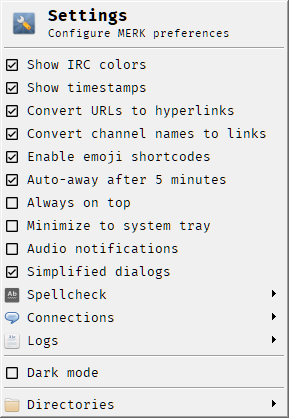
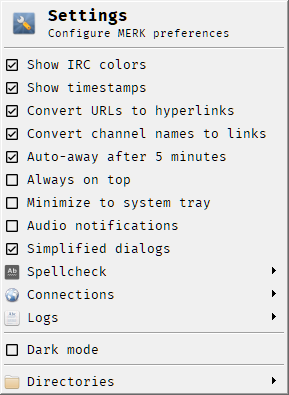
Latest build

Changed region(s): [[0.0, 0.0, 0.9965, 1.0], [0.9343, 0.6684, 0.9654, 0.7595]]

diff --git a/README.html b/README.html
@@ -1,4 +1,4 @@
-<h1>MERK 0.042.064</h1>
+<h1>MERK 0.042.070</h1>
 
 <p><a href="https://github.com/nutjob-laboratories/merk">Official source code repository</a></p>
 <h1 id="table-of-contents">Table of contents</h1>
@@ -14,7 +14,7 @@
 <li><a href="#does-merk-need-any-help">Does MERK need any help?</a></li>
 </ul>
 <h1 id="summary">Summary</h1>
-<p><strong>MERK</strong> is a graphical <a href="https://www.gnu.org/licenses/gpl-3.0.en.html">open source</a> <a href="https://en.wikipedia.org/wiki/Internet_Relay_Chat">Internet relay chat</a> client. The current development version is <strong>0.042.064</strong>. It uses a <a href="https://en.wikipedia.org/wiki/Multiple-document_interface">multiple-document interface</a>, much like the popular Windows IRC client <a href="https://www.mirc.com/">mIRC</a>.  <strong>MERK</strong> is written in Python 3, using the <a href="https://pypi.org/project/PyQt5/">PyQt5</a> and <a href="https://twistedmatrix.com/trac/">Twisted</a> libraries, and runs on both Windows and Linux. <strong>MERK</strong> is updated frequently with new features and bugfixes.</p>
+<p><strong>MERK</strong> is a graphical <a href="https://www.gnu.org/licenses/gpl-3.0.en.html">open source</a> <a href="https://en.wikipedia.org/wiki/Internet_Relay_Chat">Internet relay chat</a> client. The current development version is <strong>0.042.070</strong>. It uses a <a href="https://en.wikipedia.org/wiki/Multiple-document_interface">multiple-document interface</a>, much like the popular Windows IRC client <a href="https://www.mirc.com/">mIRC</a>.  <strong>MERK</strong> is written in Python 3, using the <a href="https://pypi.org/project/PyQt5/">PyQt5</a> and <a href="https://twistedmatrix.com/trac/">Twisted</a> libraries, and runs on both Windows and Linux. <strong>MERK</strong> is updated frequently with new features and bugfixes.</p>
 <p><strong>MERK</strong> is still in development, but it works, and can be used for most IRC activities.</p>
 <p>Join me on the official <strong>MERK</strong> IRC channel, <strong>#merk</strong> on the Libera Chat network! Connect to  Libera in the client as one of the built-in server suggestions, or at <strong>irc.libera.chat</strong>, port <strong>6667</strong> (you can also connect via SSL on port <strong>6697</strong>). Honestly, I work a lot, so I&#39;m almost always idle, but I pop in and chat a few times a day!</p>
 <h1 id="making-merk-portable-on-windows">Making MERK Portable on Windows</h1>

diff --git a/merk/resources/README.html b/merk/resources/README.html
@@ -1,4 +1,4 @@
-<h1>MERK 0.042.064</h1>
+<h1>MERK 0.042.070</h1>
 
 <p><a href="https://github.com/nutjob-laboratories/merk">Official source code repository</a></p>
 <h1 id="table-of-contents">Table of contents</h1>
@@ -14,7 +14,7 @@
 <li><a href="#does-merk-need-any-help">Does MERK need any help?</a></li>
 </ul>
 <h1 id="summary">Summary</h1>
-<p><strong>MERK</strong> is a graphical <a href="https://www.gnu.org/licenses/gpl-3.0.en.html">open source</a> <a href="https://en.wikipedia.org/wiki/Internet_Relay_Chat">Internet relay chat</a> client. The current development version is <strong>0.042.064</strong>. It uses a <a href="https://en.wikipedia.org/wiki/Multiple-document_interface">multiple-document interface</a>, much like the popular Windows IRC client <a href="https://www.mirc.com/">mIRC</a>.  <strong>MERK</strong> is written in Python 3, using the <a href="https://pypi.org/project/PyQt5/">PyQt5</a> and <a href="https://twistedmatrix.com/trac/">Twisted</a> libraries, and runs on both Windows and Linux. <strong>MERK</strong> is updated frequently with new features and bugfixes.</p>
+<p><strong>MERK</strong> is a graphical <a href="https://www.gnu.org/licenses/gpl-3.0.en.html">open source</a> <a href="https://en.wikipedia.org/wiki/Internet_Relay_Chat">Internet relay chat</a> client. The current development version is <strong>0.042.070</strong>. It uses a <a href="https://en.wikipedia.org/wiki/Multiple-document_interface">multiple-document interface</a>, much like the popular Windows IRC client <a href="https://www.mirc.com/">mIRC</a>.  <strong>MERK</strong> is written in Python 3, using the <a href="https://pypi.org/project/PyQt5/">PyQt5</a> and <a href="https://twistedmatrix.com/trac/">Twisted</a> libraries, and runs on both Windows and Linux. <strong>MERK</strong> is updated frequently with new features and bugfixes.</p>
 <p><strong>MERK</strong> is still in development, but it works, and can be used for most IRC activities.</p>
 <p>Join me on the official <strong>MERK</strong> IRC channel, <strong>#merk</strong> on the Libera Chat network! Connect to  Libera in the client as one of the built-in server suggestions, or at <strong>irc.libera.chat</strong>, port <strong>6667</strong> (you can also connect via SSL on port <strong>6697</strong>). Honestly, I work a lot, so I&#39;m almost always idle, but I pop in and chat a few times a day!</p>
 <h1 id="making-merk-portable-on-windows">Making MERK Portable on Windows</h1>

diff --git a/merk/main.py b/merk/main.py
@@ -54,6 +54,7 @@ from .widgets import menubar,textSeparatorLabel,textSeparator
 class GlobalMdiEventFilter(QObject):
 	def eventFilter(self, watched, event):
 		interacted = False
+
 		if isinstance(watched, QMdiSubWindow):
 			if event.type() == QEvent.MouseButtonPress:
 				interacted = True
@@ -72,9 +73,44 @@ class GlobalMdiEventFilter(QObject):
 					if hasattr(c,"window_interacted_with"):
 						c.window_interacted_with()
 
+		if isinstance(watched, Merk):
+			if event.type() == QEvent.MouseButtonPress:
+				interacted = True
+			elif event.type() == QEvent.KeyPress:
+				interacted = True
+			elif event.type() == QEvent.WindowActivate:
+				interacted = True
+			elif event.type() == QEvent.MouseMove:
+				interacted = True
+
+			if interacted:
+				watched.window_interacted_with()
+
 		return False
 
 class Merk(QMainWindow):
+
+	def window_interacted_with(self):
+
+		if config.USE_AUTOAWAY:
+			if config.APP_INTERACTION_CANCELS_AUTOAWAY:
+
+				listOfConnections = {}
+				for i in irc.CONNECTIONS:
+					add_to_list = True
+					for j in self.hiding:
+						if self.hiding[j] is irc.CONNECTIONS[i]: add_to_list = False
+					if add_to_list: listOfConnections[i] = irc.CONNECTIONS[i]
+
+				if len(listOfConnections)==0: return
+
+				for i in listOfConnections:
+					client = listOfConnections[i]
+
+					if client.autoaway:
+						client.back()
+
+					client.last_interaction = 0
 
 	# ===========
 	# Constructor
@@ -2522,14 +2558,6 @@ class Merk(QMainWindow):
 		config.save_settings(config.CONFIG_FILE)
 		self.buildSettingsMenu()
 
-	def settingsEmoji(self):
-		if config.ENABLE_EMOJI_SHORTCODES:
-			config.ENABLE_EMOJI_SHORTCODES = False
-		else:
-			config.ENABLE_EMOJI_SHORTCODES = True
-		config.save_settings(config.CONFIG_FILE)
-		self.buildSettingsMenu()
-
 	def settingsDarkMode(self):
 		msgBox = QMessageBox()
 		msgBox.setIconPixmap(QPixmap(SETTINGS_ICON))
@@ -2639,13 +2667,6 @@ class Merk(QMainWindow):
 		else:
 			entry = QAction(QIcon(self.unchecked_icon),"Convert channel names to links", self)
 		entry.triggered.connect(self.settingsChanNames)
-		self.settingsMenu.addAction(entry)
-
-		if config.ENABLE_EMOJI_SHORTCODES:
-			entry = QAction(QIcon(self.checked_icon),"Enable emoji shortcodes", self)
-		else:
-			entry = QAction(QIcon(self.unchecked_icon),"Enable emoji shortcodes", self)
-		entry.triggered.connect(self.settingsEmoji)
 		self.settingsMenu.addAction(entry)
 
 		away_time = f"{config.AUTOAWAY_TIME} seconds"

diff --git a/merk/dialog/settings.py b/merk/dialog/settings.py
@@ -1759,11 +1759,13 @@ class Dialog(QDialog):
 		self.windowCancelAway.stateChanged.connect(self.changedSetting)
 		self.windowCancelAway.setStyleSheet("QCheckBox { text-align: left top; } QCheckBox::indicator { subcontrol-origin: padding; subcontrol-position: left top; }")
 	
+		self.appCancelAway = QCheckBox("Interacting with application\ncancels autoaway",self)
+		if config.APP_INTERACTION_CANCELS_AUTOAWAY: self.appCancelAway.setChecked(True)
+		self.appCancelAway.stateChanged.connect(self.changedSetting)
+		self.appCancelAway.setStyleSheet("QCheckBox { text-align: left top; } QCheckBox::indicator { subcontrol-origin: padding; subcontrol-position: left top; }")
+	
 		awayLayout = QVBoxLayout()
 		awayLayout.addWidget(widgets.textSeparatorLabel(self,"<b>away settings</b>"))
-		awayLayout.addLayout(intervalBox)
-		awayLayout.addWidget(self.typeCancelInput)
-		awayLayout.addWidget(self.windowCancelAway)
 		awayLayout.addWidget(self.promptAway)
 		awayLayout.addWidget(self.showAwayStatus)
 		awayLayout.addWidget(self.showAwayBack)
@@ -1771,6 +1773,12 @@ class Dialog(QDialog):
 		awayLayout.addWidget(QLabel(' '))
 		awayLayout.addWidget(widgets.textSeparatorLabel(self,"<b>default away message</b>"))
 		awayLayout.addWidget(awayBox)
+		awayLayout.addWidget(QLabel(' '))
+		awayLayout.addWidget(widgets.textSeparatorLabel(self,"<b>autoaway settiings</b>"))
+		awayLayout.addLayout(intervalBox)
+		awayLayout.addWidget(self.typeCancelInput)
+		awayLayout.addWidget(self.windowCancelAway)
+		awayLayout.addWidget(self.appCancelAway)
 		awayLayout.addStretch()
 
 		self.awayPage.setLayout(awayLayout)
@@ -2950,6 +2958,7 @@ class Dialog(QDialog):
 		config.DO_NOT_APPLY_STYLES_TO_TEXT = self.noStyles.isChecked()
 		config.TYPING_INPUT_CANCELS_AUTOAWAY = self.typeCancelInput.isChecked()
 		config.WINDOW_INTERACTION_CANCELS_AUTOAWAY = self.windowCancelAway.isChecked()
+		config.APP_INTERACTION_CANCELS_AUTOAWAY = self.appCancelAway.isChecked()
 
 		if self.autoAway.isChecked()!= config.USE_AUTOAWAY:
 			self.parent.resetAllAutoawayTimers()

diff --git a/merk/config.py b/merk/config.py
@@ -201,9 +201,11 @@ CONVERT_CHANNELS_TO_LINKS = False
 DO_NOT_APPLY_STYLES_TO_TEXT = False
 TYPING_INPUT_CANCELS_AUTOAWAY = True
 WINDOW_INTERACTION_CANCELS_AUTOAWAY = False
+APP_INTERACTION_CANCELS_AUTOAWAY = False
 
 def build_settings():
 	settings = {
+		"app_interaction_cancels_autoaway": APP_INTERACTION_CANCELS_AUTOAWAY,
 		"window_interaction_cancels_autoaway": WINDOW_INTERACTION_CANCELS_AUTOAWAY,
 		"typing_input_cancels_autoaway": TYPING_INPUT_CANCELS_AUTOAWAY,
 		"do_not_apply_styles_to_text": DO_NOT_APPLY_STYLES_TO_TEXT,
@@ -371,6 +373,8 @@ def build_settings():
 	return settings
 
 def patch_settings(settings):
+	if not "app_interaction_cancels_autoaway" in settings:
+		settings["app_interaction_cancels_autoaway"] = APP_INTERACTION_CANCELS_AUTOAWAY
 	if not "window_interaction_cancels_autoaway" in settings:
 		settings["window_interaction_cancels_autoaway"] = WINDOW_INTERACTION_CANCELS_AUTOAWAY
 	if not "typing_input_cancels_autoaway" in settings:
@@ -862,6 +866,7 @@ def load_settings(filename):
 	global DO_NOT_APPLY_STYLES_TO_TEXT
 	global TYPING_INPUT_CANCELS_AUTOAWAY
 	global WINDOW_INTERACTION_CANCELS_AUTOAWAY
+	global APP_INTERACTION_CANCELS_AUTOAWAY
 
 	if os.path.isfile(filename):
 		with open(filename, "r") as read_settings:
@@ -871,6 +876,7 @@ def load_settings(filename):
 		settings = patch_settings(settings)
 		postpatch_length = len(settings)
 
+		APP_INTERACTION_CANCELS_AUTOAWAY = settings["app_interaction_cancels_autoaway"]
 		WINDOW_INTERACTION_CANCELS_AUTOAWAY = settings["window_interaction_cancels_autoaway"]
 		TYPING_INPUT_CANCELS_AUTOAWAY = settings["typing_input_cancels_autoaway"]
 		DO_NOT_APPLY_STYLES_TO_TEXT = settings["do_not_apply_styles_to_text"]

diff --git a/merk/resources/version.py b/merk/resources/version.py
@@ -1,1 +1,1 @@
-APPLICATION_VERSION = "0.042.064"
+APPLICATION_VERSION = "0.042.070"

diff --git a/README.md b/README.md
@@ -3,7 +3,7 @@
   <b><big>Open Source IRC Client</big></b><br>
   <i>A multiple-document interface IRC client for Windows and Linux</i><br>
   <b><big>Current stable release: <a href="https://github.com/nutjob-laboratories/merk/releases/tag/0.042.050">MERK 0.042.050</a></big></b><br>
-  <b>Current development version: 0.042.064</b><br>
+  <b>Current development version: 0.042.070</b><br>
 </p>
 
  - [Downloads](#Downloads)
@@ -26,13 +26,13 @@ All files are packed in [ZIP archive files](https://en.wikipedia.org/wiki/ZIP_(f
 | Type| Platform  | Download  |
 | :----:    | :----:    | :----:    |
 | Current Release |  -  | [MERK 0.042.050 Release](https://github.com/nutjob-laboratories/merk/releases/tag/0.042.050)  |
-| Zip Archive|  Cross-platform  | [Download MERK 0.042.064 (8.77 MB)](https://www.dropbox.com/scl/fi/t8nhn5mnoagclu43fs1pn/merk-latest.zip?rlkey=ghcc5c3955ihn4fijw717di03&dl=1)  |
-| Zip Archive|  Windows | [Download MERK 0.042.064 (54.80 MB)](https://www.dropbox.com/scl/fi/fnu5uasoo2dzmzwiferhw/merk-windows-latest.zip?rlkey=9fke2qid0gna4n4zt00v0uhhy&dl=1)|
-|   Windows Installer|  Windows | [Download MERK 0.042.064 (41.89 MB)](https://www.dropbox.com/scl/fi/okp7zrjy25p1v3rox00p1/merk_setup.zip?rlkey=ey9f78jqzzp9ldjbqgwikk8uc&dl=1)|
+| Zip Archive|  Cross-platform  | [Download MERK 0.042.070 (8.77 MB)](https://www.dropbox.com/scl/fi/t8nhn5mnoagclu43fs1pn/merk-latest.zip?rlkey=ghcc5c3955ihn4fijw717di03&dl=1)  |
+| Zip Archive|  Windows | [Download MERK 0.042.070 (54.80 MB)](https://www.dropbox.com/scl/fi/fnu5uasoo2dzmzwiferhw/merk-windows-latest.zip?rlkey=9fke2qid0gna4n4zt00v0uhhy&dl=1)|
+|   Windows Installer|  Windows | [Download MERK 0.042.070 (41.89 MB)](https://www.dropbox.com/scl/fi/okp7zrjy25p1v3rox00p1/merk_setup.zip?rlkey=ey9f78jqzzp9ldjbqgwikk8uc&dl=1)|
 
 # Summary
   
-**MERK** is a graphical [open source](https://www.gnu.org/licenses/gpl-3.0.en.html) [Internet relay chat](https://en.wikipedia.org/wiki/Internet_Relay_Chat) client. The current development version is **0.042.064**. It uses a [multiple-document interface](https://en.wikipedia.org/wiki/Multiple-document_interface), much like the popular Windows IRC client [mIRC](https://www.mirc.com/).  **MERK** is written in Python 3, using the [PyQt5](https://pypi.org/project/PyQt5/) and [Twisted](https://twistedmatrix.com/trac/) libraries, and runs on both Windows and Linux. **MERK** is updated frequently with new features and bugfixes.
+**MERK** is a graphical [open source](https://www.gnu.org/licenses/gpl-3.0.en.html) [Internet relay chat](https://en.wikipedia.org/wiki/Internet_Relay_Chat) client. The current development version is **0.042.070**. It uses a [multiple-document interface](https://en.wikipedia.org/wiki/Multiple-document_interface), much like the popular Windows IRC client [mIRC](https://www.mirc.com/).  **MERK** is written in Python 3, using the [PyQt5](https://pypi.org/project/PyQt5/) and [Twisted](https://twistedmatrix.com/trac/) libraries, and runs on both Windows and Linux. **MERK** is updated frequently with new features and bugfixes.
 
 **MERK** is still in development, but it works, and can be used for most IRC activities. [The current stable release of **MERK** is version 0.042.050](https://github.com/nutjob-laboratories/merk/releases/tag/0.042.050).
 
